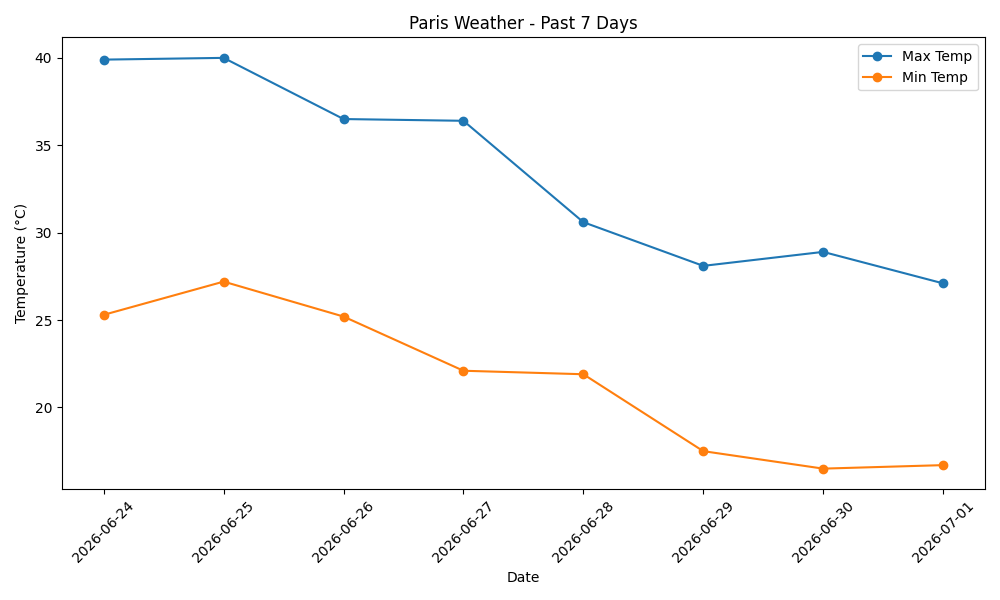
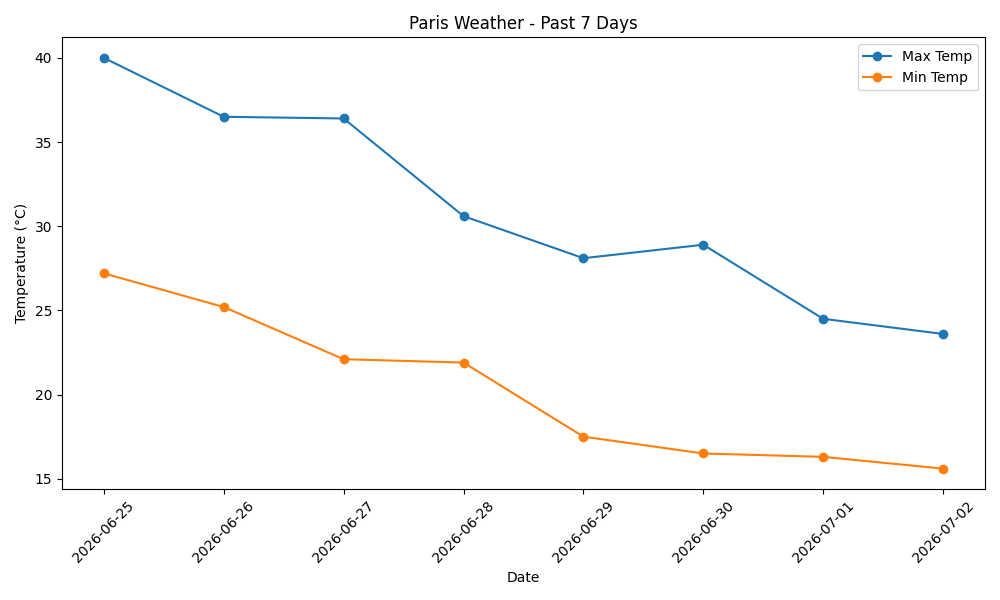
Add initial implementation of Dog class and sales data analysis script

diff --git a/myProject/analyzer.py b/myProject/analyzer.py
@@ -1,0 +1,25 @@
+import pandas as pd
+from myProject.helpers import calculate_total, format_currency
+
+# Read data
+df = pd.read_csv('data/sales.csv')
+
+# Calculate total for each row
+totals = []
+for index, row in df.iterrows():
+    total = calculate_total(row['quantity'], row['price'])
+    totals.append(total)
+
+# Add totals to our data
+df['total'] = totals
+
+# Display with formatted totals
+print("Sales Data:")
+for index, row in df.iterrows():
+    formatted_total = format_currency(row['total'])
+    print(f"{row['product']}: {formatted_total}")
+
+# Show grand total
+grand_total = df['total'].sum()
+formatted_grand_total = format_currency(grand_total)
+print(f"\nGrand Total: {formatted_grand_total}")

diff --git a/OOP/fasr.py b/OOP/fasr.py
@@ -1,0 +1,22 @@
+class Dog:
+     def __init__(self , name , color):
+          self.name = name
+          self.color = color
+
+
+D1 = Dog("vicky","white")
+
+print(D1.name)
+print(D1.color)
+
+
+# class Dog:
+#     def __init__(self, name, breed):
+#         self.name = name
+#         self.breed = breed
+
+# # Create dog objects - using positional arguments
+# dog1 = Dog("Buddy", "Golden Retriever")
+# dog2 = Dog("Max", "Beagle")
+
+# print(dog1)

diff --git a/myProject/helpers.py b/myProject/helpers.py
@@ -1,0 +1,9 @@
+# helpers.py
+
+def calculate_total(quantity, price):
+    """Calculate total for a single item"""
+    return quantity * price
+
+def format_currency(amount):
+    """Format number as currency"""
+    return f"${amount:,.2f}"